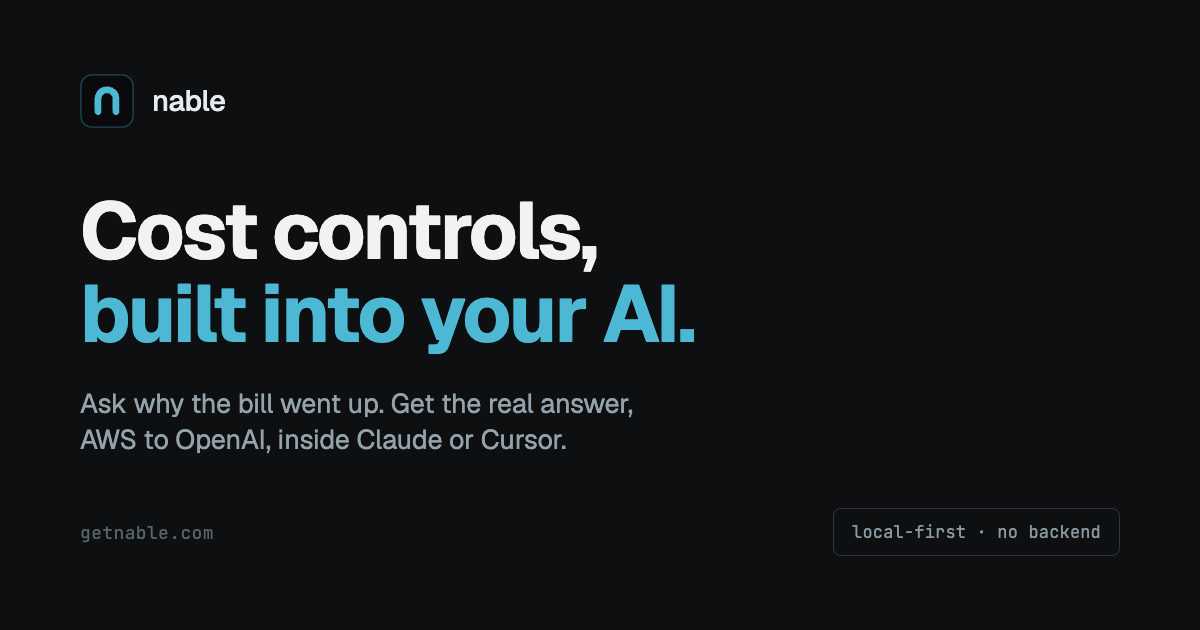
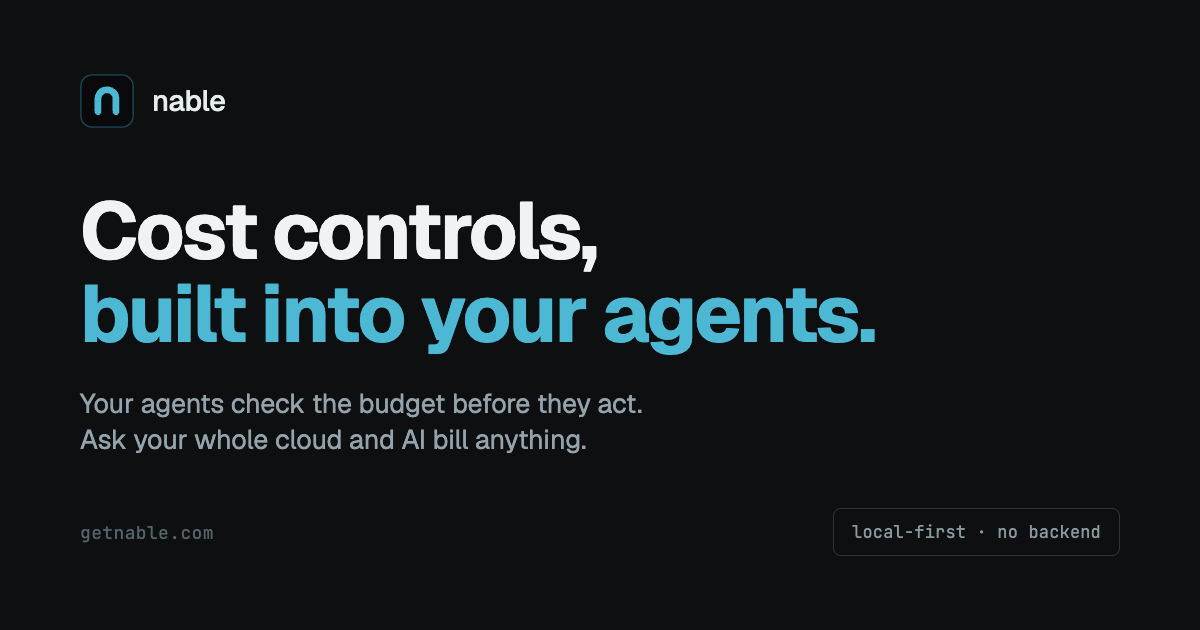
feat(web): reposition social/meta line to "built into your agents"
"Built into your AI" read as a model router (the prompt/token layer). The
differentiator is the agent layer: the gate an agent consults before it acts.
Changed the positioning line to "Cost controls, built into your agents" across
the title, OG/Twitter tags, image alt, and SoftwareApplication schema, plus
llms.txt and the README.

Re-rendered og.png (1200x630, headless Chrome from og-card.html) with the new
headline and an agent-first subtext ("Your agents check the budget before they
act"). Bumped og:image to ?v=2 so social scrapers (iMessage, Twitter, LinkedIn)
refetch instead of serving the cached old card.

Changed region(s): [[0.0617, 0.6032, 0.555, 0.7238], [0.4933, 0.4524, 0.74, 0.573]]

diff --git a/web/index.html b/web/index.html
@@ -3,21 +3,21 @@
 <head>
 <meta charset="utf-8" />
 <meta name="viewport" content="width=device-width,initial-scale=1" />
-<title>nable · Cost controls, built into your AI</title>
+<title>nable · Cost controls, built into your agents</title>
 <link rel="canonical" href="https://getnable.com/" />
 <meta name="description" content="nable builds cost intelligence into the AI you already use. Your agents in Claude and Cursor know what things cost, check the budget before they act, and propose the cheaper path. One connector to AWS, Azure, GCP, OpenAI, Anthropic, Bedrock and 10+ more." />
-<meta property="og:title" content="nable · Cost controls, built into your AI" />
+<meta property="og:title" content="nable · Cost controls, built into your agents" />
 <meta property="og:description" content="nable builds cost intelligence into the AI you already use. Your agents know what things cost, check the budget before they act, and propose the cheaper path. Not a dashboard you check after. Built in." />
 <meta property="og:url" content="https://getnable.com" />
 <meta property="og:type" content="website" />
 <meta property="og:site_name" content="nable" />
-<meta property="og:image" content="https://getnable.com/og.png" />
+<meta property="og:image" content="https://getnable.com/og.png?v=2" />
 <meta property="og:image:width" content="1200" />
 <meta property="og:image:height" content="630" />
-<meta property="og:image:alt" content="nable: cost controls built into your AI" />
+<meta property="og:image:alt" content="nable: cost controls built into your agents" />
 <meta name="twitter:card" content="summary_large_image" />
-<meta name="twitter:image" content="https://getnable.com/og.png" />
-<meta name="twitter:title" content="nable · Cost controls, built into your AI" />
+<meta name="twitter:image" content="https://getnable.com/og.png?v=2" />
+<meta name="twitter:title" content="nable · Cost controls, built into your agents" />
 <meta name="twitter:description" content="nable builds cost intelligence into the AI you already use. Your agents know what things cost, check the budget before they act, and propose the cheaper path. Not a dashboard you check after. Built in." />
 <link rel="icon" type="image/svg+xml" href="favicon.svg" />
 
@@ -31,7 +31,7 @@
       "@id": "https://getnable.com/#org",
       "name": "nable",
       "url": "https://getnable.com",
-      "logo": "https://getnable.com/og.png",
+      "logo": "https://getnable.com/og.png?v=2",
       "sameAs": ["https://www.linkedin.com/company/getnable/"]
     },
     {
@@ -41,7 +41,7 @@
       "operatingSystem": "macOS, Windows, Linux",
       "url": "https://getnable.com",
       "publisher": { "@id": "https://getnable.com/#org" },
-      "description": "Cost controls, built into your AI. nable makes Claude, Cursor and your AI agents cost-aware: ask your whole cloud and AI bill anything, gate agent actions against your budget before they run, and get fixes as pull requests a human approves. One connector to AWS, Azure, GCP and 10+ SaaS and AI providers.",
+      "description": "Cost controls, built into your agents. nable makes Claude, Cursor and your AI agents cost-aware: ask your whole cloud and AI bill anything, gate agent actions against your budget before they run, and get fixes as pull requests a human approves. One connector to AWS, Azure, GCP and 10+ SaaS and AI providers.",
       "offers": [
         { "@type": "Offer", "name": "Dev", "price": "0", "priceCurrency": "USD", "description": "Solo, local, bring your own LLM key. Cost queries, anomaly detection, rightsizing, LLM spend tracking, every connector. No credit card, no expiry." },
         { "@type": "Offer", "name": "Pro", "price": "100", "priceCurrency": "USD", "description": "$100 per month flat for your whole team, not per seat. Local, bring your own LLM key. Adds Terraform remediation PRs, ticket creation, Slack and Teams alerts, digests, budgets, commitment recommendations, the conversational Slack bot, and root cause analysis with chat remediation. $1,000 per year billed annually. Managed single-tenant hosting plus an AI agent is an optional add-on; contact us for a demo." },

diff --git a/web/marketing/og-card.html b/web/marketing/og-card.html
@@ -30,8 +30,8 @@
 <div class="card">
   <div class="brand"><div class="logo"><svg viewBox="0 0 120 120"><rect x="2" y="2" width="116" height="116" rx="25" fill="#0a0a0c" stroke="#2c7d91" stroke-opacity=".55" stroke-width="3"/><path d="M40 84 L40 55 A20 20 0 0 1 80 55 L80 84" fill="none" stroke="#4db8d4" stroke-width="15" stroke-linecap="round" stroke-linejoin="round"/></svg></div><div class="wm">nable</div></div>
   <div class="mid">
-    <h1>Cost controls,<br/><span class="accent">built into your AI.</span></h1>
-    <p class="sub">Ask why the bill went up. Get the real answer,<br/>AWS to OpenAI, inside Claude or Cursor.</p>
+    <h1>Cost controls,<br/><span class="accent">built into your agents.</span></h1>
+    <p class="sub">Your agents check the budget before they act.<br/>Ask your whole cloud and AI bill anything.</p>
   </div>
   <div class="foot">
     <span class="url">getnable.com</span>

diff --git a/README.md b/README.md
@@ -1,6 +1,6 @@
 # nable
 
-**Cost controls, built into your AI. Ask your whole cloud and AI bill anything inside Claude or Cursor, gate what your agents do against your budget, and get the fix as a pull request you approve. One connector to AWS, Azure, GCP and 10+ SaaS and AI providers.**
+**Cost controls, built into your agents. Ask your whole cloud and AI bill anything inside Claude or Cursor, gate what your agents do against your budget, and get the fix as a pull request you approve. One connector to AWS, Azure, GCP and 10+ SaaS and AI providers.**
 
 [![PyPI](https://img.shields.io/pypi/v/finops-mcp?label=pypi&color=4db8d4)](https://pypi.org/project/finops-mcp/)
 [![Python](https://img.shields.io/pypi/pyversions/finops-mcp?color=4db8d4)](https://pypi.org/project/finops-mcp/)